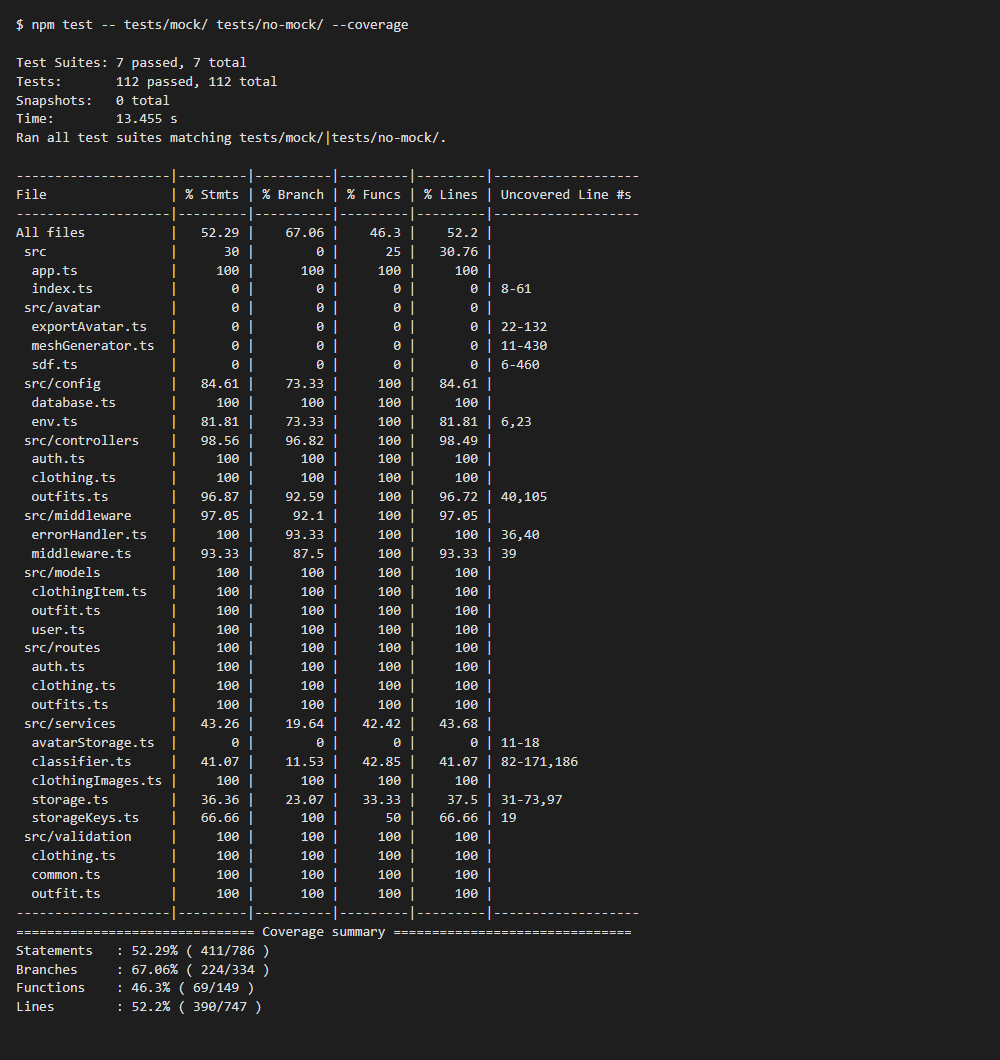
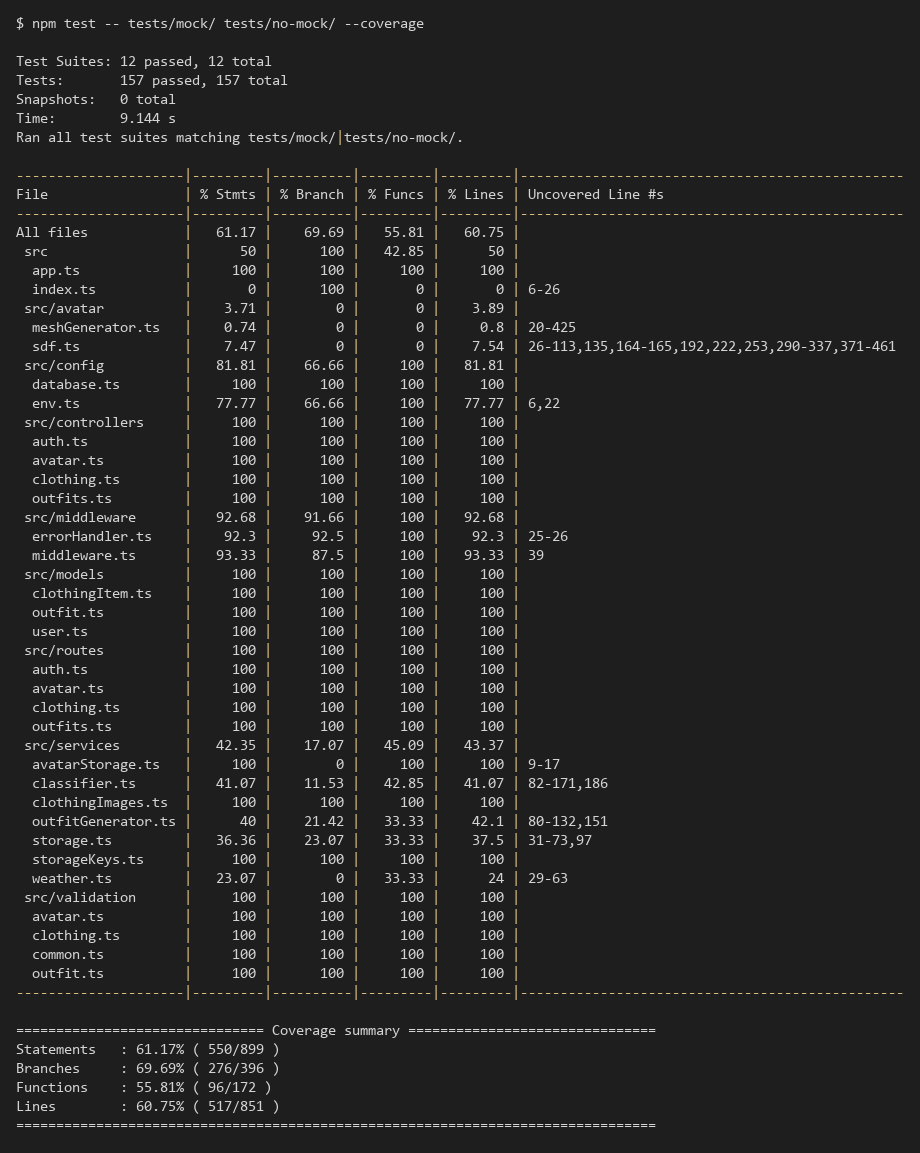
docs: update Testing.md for CP2
- Add POST /avatar and POST /outfits/generate to the back-end test table
  and the mocked components, and point every test link at its current line.
- Replace the coverage screenshots, add a report of every back-end test,
  and give the reason each file below 100% can't be fully covered.
- Name the two non-functional requirements that will be tested.
- The submission commit hash is left as <SUBMISSION_COMMIT_SHA> to fill in
  once the CP2 pull requests are merged.

diff --git a/documentation/Testing.md b/documentation/Testing.md
@@ -7,12 +7,13 @@
 | 2026-10-18 | 2, 3, 4 | First version for CP1. Section 2 documents the back-end tests of all interfaces of the Clothing component (`/clothing`), how to run them, the GitHub Actions configuration and the coverage reports. Section 4 gives the end-to-end test design for the Upload Clothing Item use case. Section 3 is left for CP2, since the non-functional requirements are not finalized yet. |
 | 2026-10-24 | 2.1.1, 2.5 | Added the mocked `describe` groups for the `/outfits` interfaces. `controllers/outfits.ts` is now fully covered: the mocked tests reach the update-after-concurrent-delete case, and an unreachable check was removed. |
 | 2026-10-25 | 4 | Implemented the Upload Clothing Item end-to-end test (`UploadClothingTest.kt`) and added its logs. Each scenario is now a separate test so they don't depend on each other, and "the closet is unchanged" is checked against the back-end and the first card instead of by counting cards, since a large closet doesn't fit on screen. The test adds its photos to the photo library itself and removes them and any item it added afterwards. |
+| 2026-10-29 | 2, 3 | Updated for CP2. Added `POST /avatar` and `POST /outfits/generate` to the back-end test table and the mocked components, and pointed every test link at the current line. Updated the commit hash, the run instructions and the coverage screenshots, added a report of every back-end test together with the reasons each file below 100% can't be fully covered, and covered the error handler's branches listed for CP2. Section 3 now names the two non-functional requirements that are tested automatically; their tests come with the features they measure. |
 
 ---
 
 ## 2. Back-end Test Specification: APIs
 
-For CP1 the back-end tests are documented for all interfaces of the **Clothing** component: `POST /clothing`, `GET /clothing`, `GET /clothing/:id`, `PATCH /clothing/:id` and `DELETE /clothing/:id`. The other interfaces that already have tests are listed in the same table and will be documented in detail for CP2.
+The back-end tests are documented in detail for all interfaces of the **Clothing** component: `POST /clothing`, `GET /clothing`, `GET /clothing/:id`, `PATCH /clothing/:id` and `DELETE /clothing/:id`. Every other interface that has tests (authentication, avatars and outfits) is listed in the same table with its `describe` groups and mocked components.
 
 ### 2.1. Locations of Back-end Tests and Instructions to Run Them
 
@@ -20,23 +21,26 @@ For CP1 the back-end tests are documented for all interfaces of the **Clothing**
 
 | **Interface** | **Describe Group Location, No Mocks** | **Describe Group Location, With Mocks** | **Mocked Components** |
 | ------------- | ------------------------------------- | --------------------------------------- | --------------------- |
-| **POST /clothing** | [`backend/tests/no-mock/clothing.test.ts#L24`](https://github.com/evannawfal/fabricate/blob/10f8b8a44372602cbf048c6a18e843c9c0c1ab0b/backend/tests/no-mock/clothing.test.ts#L24) | [`backend/tests/mock/clothingUpload.test.ts#L69`](https://github.com/evannawfal/fabricate/blob/10f8b8a44372602cbf048c6a18e843c9c0c1ab0b/backend/tests/mock/clothingUpload.test.ts#L69) | Clothing classifier (Claude API), Azure Blob Storage, Clothing DB |
-| **GET /clothing** | [`backend/tests/no-mock/clothing.test.ts#L120`](https://github.com/evannawfal/fabricate/blob/10f8b8a44372602cbf048c6a18e843c9c0c1ab0b/backend/tests/no-mock/clothing.test.ts#L120) | [`backend/tests/mock/clothing.test.ts#L38`](https://github.com/evannawfal/fabricate/blob/10f8b8a44372602cbf048c6a18e843c9c0c1ab0b/backend/tests/mock/clothing.test.ts#L38) | Azure Blob Storage (photo links), Clothing DB |
-| **GET /clothing/:id** | [`backend/tests/no-mock/clothing.test.ts#L242`](https://github.com/evannawfal/fabricate/blob/10f8b8a44372602cbf048c6a18e843c9c0c1ab0b/backend/tests/no-mock/clothing.test.ts#L242) | [`backend/tests/mock/clothing.test.ts#L80`](https://github.com/evannawfal/fabricate/blob/10f8b8a44372602cbf048c6a18e843c9c0c1ab0b/backend/tests/mock/clothing.test.ts#L80) | Clothing DB |
-| **PATCH /clothing/:id** | [`backend/tests/no-mock/clothing.test.ts#L334`](https://github.com/evannawfal/fabricate/blob/10f8b8a44372602cbf048c6a18e843c9c0c1ab0b/backend/tests/no-mock/clothing.test.ts#L334) | [`backend/tests/mock/clothing.test.ts#L101`](https://github.com/evannawfal/fabricate/blob/10f8b8a44372602cbf048c6a18e843c9c0c1ab0b/backend/tests/mock/clothing.test.ts#L101) | Clothing DB |
-| **DELETE /clothing/:id** | [`backend/tests/no-mock/clothing.test.ts#L520`](https://github.com/evannawfal/fabricate/blob/10f8b8a44372602cbf048c6a18e843c9c0c1ab0b/backend/tests/no-mock/clothing.test.ts#L520) | [`backend/tests/mock/clothing.test.ts#L149`](https://github.com/evannawfal/fabricate/blob/10f8b8a44372602cbf048c6a18e843c9c0c1ab0b/backend/tests/mock/clothing.test.ts#L149) | Clothing DB |
-| POST /auth/google | [`backend/tests/no-mock/auth.test.ts#L20`](https://github.com/evannawfal/fabricate/blob/10f8b8a44372602cbf048c6a18e843c9c0c1ab0b/backend/tests/no-mock/auth.test.ts#L20) | [`backend/tests/mock/auth.test.ts#L47`](https://github.com/evannawfal/fabricate/blob/10f8b8a44372602cbf048c6a18e843c9c0c1ab0b/backend/tests/mock/auth.test.ts#L47) | Google Authentication API, User DB |
-| POST /outfits | [`backend/tests/no-mock/outfits.test.ts#L29`](https://github.com/evannawfal/fabricate/blob/10f8b8a44372602cbf048c6a18e843c9c0c1ab0b/backend/tests/no-mock/outfits.test.ts#L29) | [`backend/tests/mock/outfits.test.ts#L52`](https://github.com/evannawfal/fabricate/blob/main/backend/tests/mock/outfits.test.ts#L52) | Outfit DB, Clothing DB |
-| GET /outfits | [`backend/tests/no-mock/outfits.test.ts#L172`](https://github.com/evannawfal/fabricate/blob/10f8b8a44372602cbf048c6a18e843c9c0c1ab0b/backend/tests/no-mock/outfits.test.ts#L172) | [`backend/tests/mock/outfits.test.ts#L101`](https://github.com/evannawfal/fabricate/blob/main/backend/tests/mock/outfits.test.ts#L101) | Outfit DB, Clothing DB, Azure Blob Storage (photo links) |
-| GET /outfits/:id | [`backend/tests/no-mock/outfits.test.ts#L217`](https://github.com/evannawfal/fabricate/blob/10f8b8a44372602cbf048c6a18e843c9c0c1ab0b/backend/tests/no-mock/outfits.test.ts#L217) | [`backend/tests/mock/outfits.test.ts#L160`](https://github.com/evannawfal/fabricate/blob/main/backend/tests/mock/outfits.test.ts#L160) | Outfit DB |
-| PATCH /outfits/:id | [`backend/tests/no-mock/outfits.test.ts#L279`](https://github.com/evannawfal/fabricate/blob/10f8b8a44372602cbf048c6a18e843c9c0c1ab0b/backend/tests/no-mock/outfits.test.ts#L279) | [`backend/tests/mock/outfits.test.ts#L180`](https://github.com/evannawfal/fabricate/blob/main/backend/tests/mock/outfits.test.ts#L180) | Outfit DB |
-| DELETE /outfits/:id | [`backend/tests/no-mock/outfits.test.ts#L434`](https://github.com/evannawfal/fabricate/blob/10f8b8a44372602cbf048c6a18e843c9c0c1ab0b/backend/tests/no-mock/outfits.test.ts#L434) | [`backend/tests/mock/outfits.test.ts#L248`](https://github.com/evannawfal/fabricate/blob/main/backend/tests/mock/outfits.test.ts#L248) | Outfit DB |
-| GET /health | [`backend/tests/no-mock/health.test.ts#L6`](https://github.com/evannawfal/fabricate/blob/10f8b8a44372602cbf048c6a18e843c9c0c1ab0b/backend/tests/no-mock/health.test.ts#L6) | None needed (no external components) | None |
+| **POST /clothing** | [`backend/tests/no-mock/clothing.test.ts#L24`](https://github.com/evannawfal/fabricate/blob/main/backend/tests/no-mock/clothing.test.ts#L24) | [`backend/tests/mock/clothingUpload.test.ts#L71`](https://github.com/evannawfal/fabricate/blob/main/backend/tests/mock/clothingUpload.test.ts#L71) | Clothing classifier (Claude API), Azure Blob Storage, Clothing DB |
+| **GET /clothing** | [`backend/tests/no-mock/clothing.test.ts#L120`](https://github.com/evannawfal/fabricate/blob/main/backend/tests/no-mock/clothing.test.ts#L120) | [`backend/tests/mock/clothing.test.ts#L38`](https://github.com/evannawfal/fabricate/blob/main/backend/tests/mock/clothing.test.ts#L38) | Azure Blob Storage (photo links), Clothing DB |
+| **GET /clothing/:id** | [`backend/tests/no-mock/clothing.test.ts#L242`](https://github.com/evannawfal/fabricate/blob/main/backend/tests/no-mock/clothing.test.ts#L242) | [`backend/tests/mock/clothing.test.ts#L78`](https://github.com/evannawfal/fabricate/blob/main/backend/tests/mock/clothing.test.ts#L78) | Clothing DB |
+| **PATCH /clothing/:id** | [`backend/tests/no-mock/clothing.test.ts#L334`](https://github.com/evannawfal/fabricate/blob/main/backend/tests/no-mock/clothing.test.ts#L334) | [`backend/tests/mock/clothing.test.ts#L99`](https://github.com/evannawfal/fabricate/blob/main/backend/tests/mock/clothing.test.ts#L99) | Clothing DB |
+| **DELETE /clothing/:id** | [`backend/tests/no-mock/clothing.test.ts#L520`](https://github.com/evannawfal/fabricate/blob/main/backend/tests/no-mock/clothing.test.ts#L520) | [`backend/tests/mock/clothing.test.ts#L147`](https://github.com/evannawfal/fabricate/blob/main/backend/tests/mock/clothing.test.ts#L147) | Clothing DB |
+| POST /auth/google | [`backend/tests/no-mock/auth.test.ts#L20`](https://github.com/evannawfal/fabricate/blob/main/backend/tests/no-mock/auth.test.ts#L20) | [`backend/tests/mock/auth.test.ts#L47`](https://github.com/evannawfal/fabricate/blob/main/backend/tests/mock/auth.test.ts#L47) | Google Authentication API, User DB |
+| POST /avatar | [`backend/tests/no-mock/avatar.test.ts#L24`](https://github.com/evannawfal/fabricate/blob/main/backend/tests/no-mock/avatar.test.ts#L24) | [`backend/tests/mock/avatar.test.ts#L59`](https://github.com/evannawfal/fabricate/blob/main/backend/tests/mock/avatar.test.ts#L59) | Avatar generation, Azure Blob Storage, User DB |
+| POST /outfits | [`backend/tests/no-mock/outfits.test.ts#L29`](https://github.com/evannawfal/fabricate/blob/main/backend/tests/no-mock/outfits.test.ts#L29) | [`backend/tests/mock/outfits.test.ts#L52`](https://github.com/evannawfal/fabricate/blob/main/backend/tests/mock/outfits.test.ts#L52) | Outfit DB, Clothing DB |
+| POST /outfits/generate | [`backend/tests/no-mock/outfitGeneration.test.ts#L26`](https://github.com/evannawfal/fabricate/blob/main/backend/tests/no-mock/outfitGeneration.test.ts#L26) | [`backend/tests/mock/outfitGeneration.test.ts#L73`](https://github.com/evannawfal/fabricate/blob/main/backend/tests/mock/outfitGeneration.test.ts#L73) | Outfit generator (Claude API), Weather service (OpenWeather), Clothing DB |
+| GET /outfits | [`backend/tests/no-mock/outfits.test.ts#L172`](https://github.com/evannawfal/fabricate/blob/main/backend/tests/no-mock/outfits.test.ts#L172) | [`backend/tests/mock/outfits.test.ts#L101`](https://github.com/evannawfal/fabricate/blob/main/backend/tests/mock/outfits.test.ts#L101) | Outfit DB, Clothing DB, Azure Blob Storage (photo links) |
+| GET /outfits/:id | [`backend/tests/no-mock/outfits.test.ts#L217`](https://github.com/evannawfal/fabricate/blob/main/backend/tests/no-mock/outfits.test.ts#L217) | [`backend/tests/mock/outfits.test.ts#L158`](https://github.com/evannawfal/fabricate/blob/main/backend/tests/mock/outfits.test.ts#L158) | Outfit DB |
+| PATCH /outfits/:id | [`backend/tests/no-mock/outfits.test.ts#L279`](https://github.com/evannawfal/fabricate/blob/main/backend/tests/no-mock/outfits.test.ts#L279) | [`backend/tests/mock/outfits.test.ts#L178`](https://github.com/evannawfal/fabricate/blob/main/backend/tests/mock/outfits.test.ts#L178) | Outfit DB |
+| DELETE /outfits/:id | [`backend/tests/no-mock/outfits.test.ts#L434`](https://github.com/evannawfal/fabricate/blob/main/backend/tests/no-mock/outfits.test.ts#L434) | [`backend/tests/mock/outfits.test.ts#L246`](https://github.com/evannawfal/fabricate/blob/main/backend/tests/mock/outfits.test.ts#L246) | Outfit DB |
+| GET /health | [`backend/tests/no-mock/health.test.ts#L6`](https://github.com/evannawfal/fabricate/blob/main/backend/tests/no-mock/health.test.ts#L6) | None needed (no external components) | None |
 
 How the external components are mocked:
 
-- **Clothing classifier (Claude API)** and **Azure Blob Storage**: the tests replace them with Jest stand-ins through `setClothingClassifier()` and `setFileStorage()`, so they can return a classification, throw an "unavailable" or "not clothing" error, or fail an upload. [`backend/tests/setupEnv.ts`](https://github.com/evannawfal/fabricate/blob/10f8b8a44372602cbf048c6a18e843c9c0c1ab0b/backend/tests/setupEnv.ts) clears their credentials, so the tests never call the real services.
-- **Clothing DB / User DB** (MongoDB): the tests without mocks use a real in-memory MongoDB server ([`backend/tests/helpers/database.ts`](https://github.com/evannawfal/fabricate/blob/10f8b8a44372602cbf048c6a18e843c9c0c1ab0b/backend/tests/helpers/database.ts)). The mocked tests use `jest.spyOn()` on Mongoose model methods (`ClothingItem.create`, `find`, `findOne`, `findOneAndUpdate`, `exists`) to make them throw a database error.
+- **Clothing classifier (Claude API)**, **outfit generator (Claude API)**, **weather service (OpenWeather)** and **Azure Blob Storage**: the tests replace them with Jest stand-ins through `setClothingClassifier()`, `setOutfitGenerator()`, `setWeatherService()` and `setFileStorage()`. The stand-ins can return a result, throw an "unavailable" or "not clothing" error, report the weather as unavailable, or fail an upload. [`backend/tests/setupEnv.ts`](https://github.com/evannawfal/fabricate/blob/main/backend/tests/setupEnv.ts) clears the services' credentials, so the tests never call the real services.
+- **Avatar generation**: `jest.unstable_mockModule()` replaces `exportAvatar()` so the mocked `POST /avatar` tests can return a model or fail without generating a mesh.
+- **Clothing DB / Outfit DB / User DB** (MongoDB): the tests without mocks use a real in-memory MongoDB server ([`backend/tests/helpers/database.ts`](https://github.com/evannawfal/fabricate/blob/main/backend/tests/helpers/database.ts)). The mocked tests use `jest.spyOn()` on Mongoose model methods (for example `ClothingItem.create`, `find`, `findOne`, `findOneAndUpdate`, `exists` and the same `Outfit` methods) to make them throw a database error.
 - **Google Authentication API**: `jest.spyOn(OAuth2Client.prototype, 'verifyIdToken')` returns a chosen Google profile.
 
 **Test cases of the Clothing component**
@@ -119,18 +123,18 @@ Each test in the code is annotated with its input, expected status code, expecte
 
 #### 2.1.2. Commit Hash Where Tests Run
 
-`10f8b8a44372602cbf048c6a18e843c9c0c1ab0b`
+`<SUBMISSION_COMMIT_SHA>`
 
 #### 2.1.3. Explanation on How to Run the Tests
 
-The tests need **Node.js 22** and npm 10. They do not need a `.env` file, a MongoDB installation or any API keys: they start an in-memory MongoDB server and never call the Claude API, Azure Blob Storage or Google. The first run downloads a MongoDB binary, so it needs an internet connection.
+The tests need **Node.js 22** and npm 10. They do not need a `.env` file, a MongoDB installation or any API keys: they start an in-memory MongoDB server and never call the Claude API, OpenWeather, Azure Blob Storage or Google. The first run downloads a MongoDB binary, so it needs an internet connection.
 
 1. **Clone the repository**:
 
    ```
    git clone https://github.com/evannawfal/fabricate.git
    cd fabricate
-   git checkout 10f8b8a44372602cbf048c6a18e843c9c0c1ab0b
+   git checkout <SUBMISSION_COMMIT_SHA>
    ```
 
 2. **Install the back-end dependencies**:
@@ -155,7 +159,7 @@ The tests need **Node.js 22** and npm 10. They do not need a `.env` file, a Mong
    npm test                        # every back-end test, including the unit tests in tests/unit
    ```
 
-   Coverage is always collected for every file in `backend/src` (`collectCoverageFrom` in [`backend/jest.config.js`](https://github.com/evannawfal/fabricate/blob/10f8b8a44372602cbf048c6a18e843c9c0c1ab0b/backend/jest.config.js)) and printed as a per-file table.
+   Coverage is always collected for every file in `backend/src` (`collectCoverageFrom` in [`backend/jest.config.js`](https://github.com/evannawfal/fabricate/blob/main/backend/jest.config.js)) and printed as a per-file table.
 
 ### 2.2. GitHub Actions Configuration Location
 
@@ -165,53 +169,61 @@ The **Backend tests** job runs on every pull request and every push to `main`. I
 
 ### 2.3. Jest Coverage Report Screenshots With Mocks
 
-`npm test -- tests/mock/` (19 tests, all passing):
+`npm test -- tests/mock/` (41 tests, all passing):
 
 ![Jest coverage with mocks](images/coverage-mock.png)
 
-The mocked tests focus on error handling (failing classifier, storage and database calls) and on the parts that depend on the external services, so their coverage is low on its own.
+The mocked tests focus on error handling (failing classifiers, the outfit generator, storage and database calls) and on the parts that depend on the external services, so their coverage is low on its own.
 
 ### 2.4. Jest Coverage Report Screenshots Without Mocks
 
-`npm test -- tests/no-mock/` (93 tests, all passing):
+`npm test -- tests/no-mock/` (116 tests, all passing):
 
 ![Jest coverage without mocks](images/coverage-no-mock.png)
 
-Without mocks, `controllers/clothing.ts` misses lines 34-50: the part of `POST /clothing` after a photo is accepted, which needs the classifier and file storage (covered by the mocked tests).
+Without mocks, the controllers miss the parts that only run once an external service has answered: `controllers/clothing.ts` (34-50) after a photo is accepted, `controllers/outfits.ts` (89-106) after the outfit generator is reached, `controllers/avatar.ts` (19-44) after the avatar is generated, and `controllers/auth.ts` (35-56) after Google accepts the sign-in. The mocked tests cover these.
 
 ### 2.5. Jest Coverage Report Screenshots With and Without Mocks Combined
 
-`npm test -- tests/mock/ tests/no-mock/` (112 tests, all passing):
+`npm test -- tests/mock/ tests/no-mock/` (157 tests, all passing):
 
 ![Jest coverage with and without mocks combined](images/coverage-interface.png)
 
-**Clothing component:** every file of the Clothing component has 100% statement, branch, function and line coverage when both sets run: `routes/clothing.ts`, `controllers/clothing.ts`, `validation/clothing.ts`, `models/clothingItem.ts` and `services/clothingImages.ts`.
+**Clothing component:** every file of the Clothing component has 100% statement, branch, function and line coverage when both sets run: `routes/clothing.ts`, `controllers/clothing.ts`, `validation/clothing.ts`, `models/clothingItem.ts` and `services/clothingImages.ts`. So does every other controller, route, model and validation file.
 
-**Why the rest of the back-end is below 100%:**
+The rest of the combined report is below 100% because the interface tests replace two kinds of code with stand-ins. The adapters for external services (`services/classifier.ts`, `outfitGenerator.ts`, `weather.ts` and `storage.ts`) would call paid or rate-limited APIs. The avatar mesh generator (`avatar/meshGenerator.ts` and `sdf.ts`) takes seconds per mesh. Both are tested directly in `backend/tests/unit`: the adapters with mocked SDK clients, and the mesh generator with real meshes. Running every back-end test (`npm test`, 251 tests, all passing) gives:
+
+![Jest coverage of every back-end test](images/coverage-all.png)
+
+**Why some files are below 100% when every test runs:**
 
 | **File (uncovered lines)** | **Reason** |
 | -------------------------- | ---------- |
-| `src/index.ts` (8-61) | The server entry point: it connects to the production MongoDB and calls `app.listen()`. The tests build the same Express app with `createApp()` from `src/app.ts` and an in-memory database instead, so this file only runs when the server is started. |
-| `src/avatar/*`, `services/avatarStorage.ts`, `services/storageKeys.ts` (19) | Avatar generation and avatar file storage for the Customize Avatar feature. No API endpoint uses them yet (avatar endpoints are in progress), so API tests can't reach them. They will be covered by the avatar interface tests. |
-| `services/classifier.ts` (82-171, 186), `services/storage.ts` (31-73, 97) | The adapters that call the real Claude API and Azure Blob Storage SDKs. The interface tests replace them with stand-ins so they never use paid external services. The adapters are tested with mocked SDK clients in `backend/tests/unit` (`npm test`: classifier.ts 98% and storage.ts 97% of statements). The only lines left are the ones that create the real SDK client from the production credentials. |
-| `config/env.ts` (6, 23) | Start-up checks that stop the server when a required environment variable is missing or `PORT` is invalid. They run once when the module loads, before any request. |
-| `middleware/middleware.ts` (39), `middleware/errorHandler.ts` (branches on 36, 40) | Defensive checks, to be covered or removed for CP2. |
+| `src/index.ts` (6-26) | The server entry point: it connects to the production MongoDB and starts listening. The tests build the same Express app with `createApp()` from `src/app.ts` and an in-memory database instead, so this file only runs when the server is started. |
+| `config/env.ts` (6, 22) | Start-up checks that stop the server when a required environment variable is missing or `PORT` is invalid. They run once when the module loads, before any test can change the environment. |
+| `services/classifier.ts` (186), `services/storage.ts` (97) | The lines that create the real Claude and Azure SDK clients from the production credentials. Running them in a test would need real credentials. |
+| `services/avatarStorage.ts` (branch on 17) | The default value of the optional `storage` parameter. The tests always pass a stand-in so they never contact Azure. |
+| `middleware/middleware.ts` (39) | `getUserId()` throws if a handler is mounted without `requireAuth`. Every route is mounted behind `requireAuth`, so a request can't reach it; it turns a routing mistake into a clear error instead of an undefined user id in a database query. |
+| `avatar/meshGenerator.ts` (branches on 21-38, 161, 246-288, 412), `avatar/sdf.ts` (branch on 424) | Numerical guards in the mesh generator: a fallback for a zero-length gradient or a near-zero denominator, the alternative helper axis when a normal is almost parallel to the x-axis, and default parameter values. A real body shape never produces these values, and every line still runs. |
+
+In the interface tests alone, `middleware/errorHandler.ts` (25-26) is also uncovered: it passes an error to Express when a response has already started, which no current endpoint does (none streams its response). `tests/unit/errorHandler.test.ts` covers it.
 
 ---
 
 ## 3. Tests of Non-Functional Requirements
 
-The non-functional requirements are not finalized in `Requirements_and_Design.md` yet. Their automated tests will be in `backend/tests/nfr/` and will be documented here for CP2.
+Two of the three non-functional requirements in `Requirements_and_Design.md` will be tested automatically: [room update latency](Requirements_and_Design.md#nfr1) and [closet analysis time](Requirements_and_Design.md#nfr3). Both measure features that are still being built (the rooms back-end and the closet gap analysis), so their tests will be in `backend/tests/nfr/` and documented here once those features are merged.
 
 ### 3.1. Test Locations in Git
 
 | **Non-Functional Requirement** | **Location in Git** |
 | ------------------------------ | ------------------- |
-| _To be added for CP2_ | `backend/tests/nfr/` |
+| Room updates reach members within 1 second | `backend/tests/nfr/` (with the rooms back-end) |
+| Closet gap analysis finishes within 2 seconds for 500 items | `backend/tests/nfr/` (with the gap analysis) |
 
 ### 3.2. Test Verification and Logs
 
-_To be added for CP2._
+To be added with the tests.
 
 ---
 
